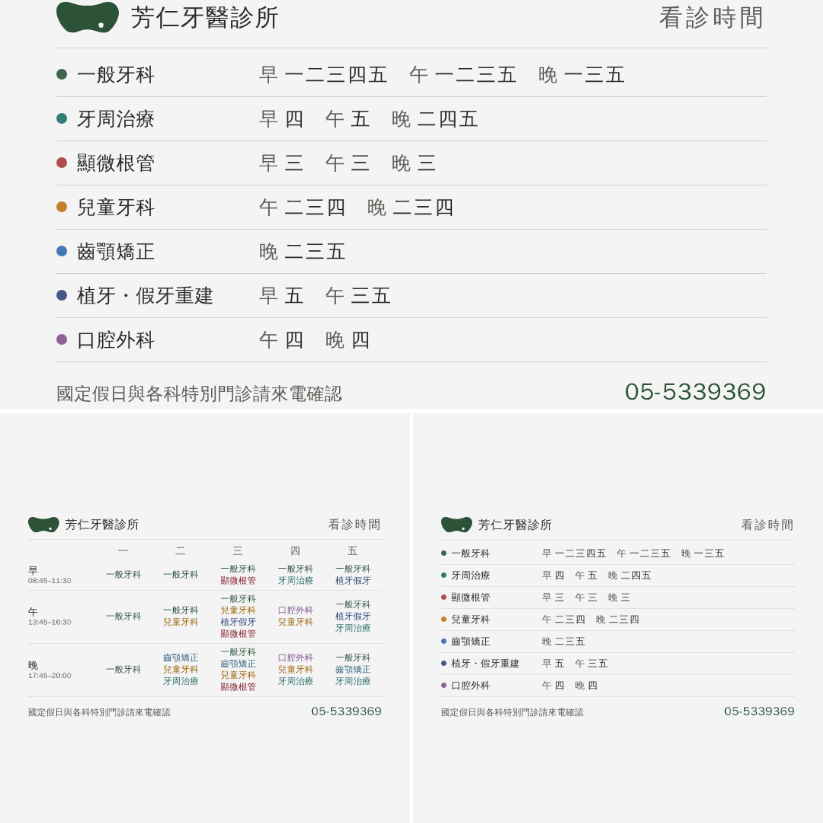
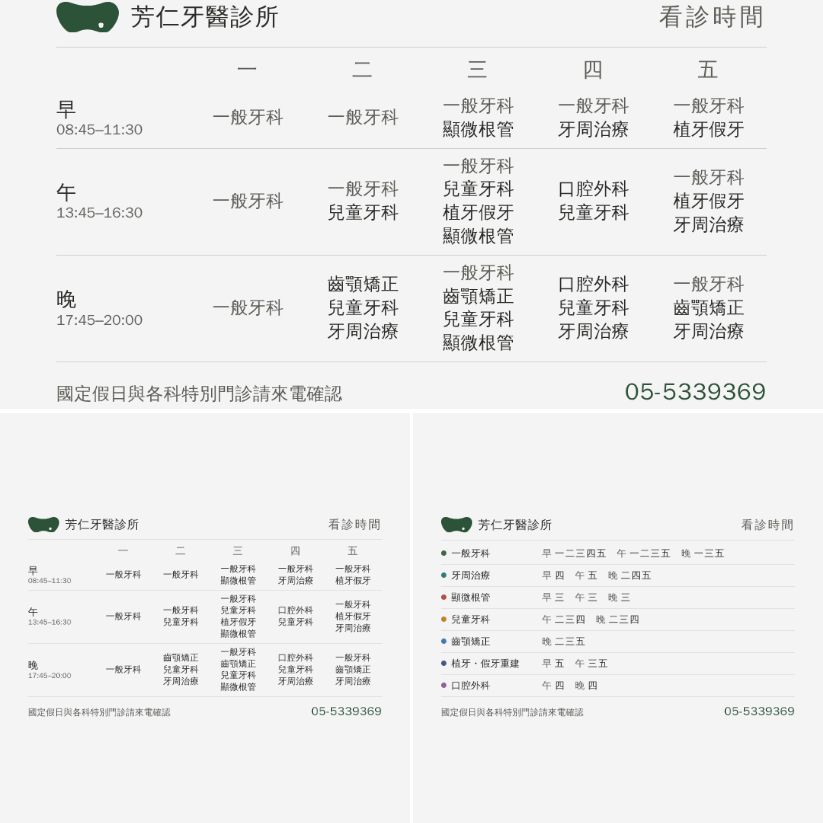
LINE 貼文的看診時間圖：顏色收掉，三案待選
使用者：「G 文字的比較好，但有需要這麼多顏色嗎…或是每個科別各自用一個 logo」
兩個提議方向相反（一個減、一個加），三個都做出來，並在成品的尺寸上量過。

Ⓡ **一般牙科退一階（建議）** —— ⚠⚠⚠ 它在 15 節裡佔 12 節，是「這一節有沒有
   開診」的背景，不是「這一節有什麼特別的」。和其他六科畫成一樣重，等於讓最
   不需要找的東西佔掉最多視覺重量（25 個名字裡有 12 個是它）。退一階之後，
   五科特別門診自己跳出來 —— 零彩色，但層次比七色更清楚。
Ⓘ 全部同一個墨 —— 最乾淨，代價是要一個字一個字讀。
Ⓜ 每科一顆記號 —— ⚠ **不建議，而且是量出來的**：那九顆標誌變體畫成 22px
   （＝格子裡記號的大小），兩兩不同的像素比例最不像的一對也只有 20.9%、
   中位 16.7%（同樣九顆在 150px 的浮水印上是 52.0%／26.6%）。
   它們是同一個標誌的九種變體，不是九個不同的圖示。而且一格最多四個項目，
   25 顆記號比顏色更花，和他要的方向相反。

⚠ 通則（已在 CLAUDE.md，這裡又用上一次）：**在成品的尺寸上量，不要在素材的
尺寸上量** —— 同一組形狀在 150px 下堪用、在 22px 下不成立。

Claude-Session: https://claude.ai/code/session_01MZajVWsXZEKKyaPnDuqBAm

diff --git a/preview/line-post-hours/index.html b/preview/line-post-hours/index.html
@@ -6,19 +6,13 @@
 <meta name="robots" content="noindex, nofollow, noarchive">
 <title>芳仁牙醫診所　LINE 貼文的看診時間圖</title>
 <!--
-  兩案待選。定案之後照 CLAUDE.md 第十一之五節改寫成規格頁
-  （成品在 LINE 不在站上，所以不刪頁、不搬進 history/）。
-
-  ⚠⚠⚠ 2026-09-07 使用者看過五案：「覺得不夠乾淨　簡潔」。
-     ① 圖收成三塊（識別／表／電話），沒有卡片框、沒有副標、沒有大標題。
-     ② **這一頁的文字也一起收掉** —— 他同一天才對 /preview/line-spec/ 講過
-        「只要保留模擬圖的部分就好…大量的文字解說都不用」，我隔一頁又寫了一堆。
-     ③ 「乾淨簡潔」本身淘汰了三案：色點版要來回對照圖例、八張版要滑八張。
-     推導留在 drafts/channels/post-hours.mjs 的檔頭，不搬到這一頁上。
+  2026-09-07 使用者：「我感覺 G 文字的比較好，但有需要這麼多顏色嗎？
+  因為光以文字應該就能區分科別。或是每個科別各自用一個 logo 加註呢？」
+  → 兩個提議方向相反（一個減、一個加），三個方案都做出來，
+    而且**在成品的尺寸上量過**再下判斷。推導留在 drafts/channels/post-hours.mjs 的檔頭。
 
   ⚠ 圖一律擺真的產出檔；width/height 屬性要等於 PNG 檔頭的真實尺寸。
-  ⚠ 連結一律相對路徑 —— 舊站 yclee86.github.io 還活著。
-  ⚠ 刻意零 JS（守門連 script 標籤都擋）。
+  ⚠ 連結一律相對路徑；刻意零 JS（守門連 script 標籤都擋）。
 -->
 <style>
 :root{--paper:#e2e5e6;--card:#f4f4f5;--rule:#cdd0d2;
@@ -42,8 +36,7 @@ code{font-size:.94em;background:var(--card);border-radius:4px;padding:0 4px;
 .pv-h2 em{font-style:normal;font-size:.72em;background:var(--deep);color:#fff;
   border-radius:6px;padding:1px 7px;margin-left:6px;letter-spacing:.04em;vertical-align:2px}
 .pv-shot{margin:10px 0 0}
-.pv-shot img{display:block;width:100%;height:auto;border-radius:10px;
-  border:1px solid var(--rule)}
+.pv-shot img{display:block;width:100%;height:auto;border-radius:10px;border:1px solid var(--rule)}
 .pv-cap{font-size:.7rem;color:var(--ink-soft);line-height:1.7;margin:7px 0 0}
 .pv-cap b{color:var(--ink)}
 .pv-cap .n{color:var(--red);font-weight:700}
@@ -56,38 +49,50 @@ code{font-size:.94em;background:var(--card);border-radius:4px;padding:0 4px;
 <div class="pv-wrap">
 
   <h1>LINE 貼文的看診時間圖
-    <span>兩案待選　2026-09-07</span></h1>
-  <p class="pv-lead">站上那張表靠<b>點科別標記</b>一次看一科。<br>
-    貼文是靜態的圖，但畫布 1080px <b>放得下</b>，所以不模擬切換，直接攤開。</p>
+    <span>顏色三案　2026-09-07</span></h1>
+  <p class="pv-lead">「光以文字應該就能區分科別」——<b>對</b>。<br>
+    但全部同一階會讓表變得很平，所以中間那一案多做一件事。</p>
 
-  <h2 class="pv-h2">Ⓛ 一科一行<em>建議</em>
-    <span class="t">早／午／晚 各列出哪幾天</span></h2>
+  <h2 class="pv-h2">Ⓡ 一般牙科退一階<em>建議</em>
+    <span class="t">零彩色，但有層次</span></h2>
   <div class="pv-shot">
-    <img src="post-hours-list.png" width="1080" height="1080"
-      alt="一科一行：七科各一列，每列寫出早、午、晚分別是哪幾天">
+    <img src="post-hours-rank.png" width="1080" height="1080"
+      alt="格子表：一般牙科用淺灰、其餘六科用深墨，沒有彩色">
   </div>
-  <p class="pv-cap">病人查的是「<b>我這一科什麼時候可以來</b>」。<br>
-    顯微根管排出來是「早三　午三　晚三」——<b>全在週三自己跳出來</b>，格子表看不出來。</p>
+  <p class="pv-cap">⚠ <b>一般牙科在 15 節裡佔 12 節</b>——它是「這一節有沒有開診」的背景，
+    不是「這一節有什麼特別的」。<br>
+    和其他六科一樣重，等於讓<b>最不需要找的東西佔掉最多視覺重量</b>（25 個名字裡有 12 個是它）。<br>
+    退一階之後，<b>五科特別門診自己跳出來</b>。</p>
 
-  <h2 class="pv-h2">Ⓖ 格子
-    <span class="t">和站上那張表同一個排法</span></h2>
+  <h2 class="pv-h2">Ⓘ 全部同一個墨
+    <span class="t">你講的那一個</span></h2>
   <div class="pv-shot">
-    <img src="post-hours-grid.png" width="1080" height="1080" loading="lazy"
-      alt="格子表：日子當欄、早午晚當列，格子裡直接寫科別名">
+    <img src="post-hours-ink.png" width="1080" height="1080" loading="lazy"
+      alt="格子表：所有科別都用同一個深墨">
   </div>
-  <p class="pv-cap">看得出「<b>同一節有誰一起看診</b>」。<br>
-    <span class="n">⚠</span>「植牙・假牙重建」被格子寬度逼成「<b>植牙假牙</b>」——要你點頭。</p>
+  <p class="pv-cap">最乾淨。代價是<b>要一個字一個字讀</b>——掃過去分不出哪幾節有特別門診。</p>
 
-  <h2 class="pv-h2">擺進主頁那三格
-    <span class="t">大格 2:1、小格 1:1</span></h2>
+  <h2 class="pv-h2">Ⓜ 每科一顆記號
+    <span class="t">你的第二個提議</span></h2>
+  <div class="pv-shot">
+    <img src="post-hours-mark.png" width="1080" height="1080" loading="lazy"
+      alt="格子表：每個科別名前面加一顆標誌變體的小記號，25 顆記號長得幾乎一樣">
+  </div>
+  <p class="pv-cap"><span class="n">⚠</span> <b>不建議</b>，而且是量出來的：
+    診所那九顆標誌變體畫成 <b>22px</b>（＝這裡記號的大小），
+    兩兩不同的像素比例<b>最不像的一對也只有 20.9%</b>、中位 16.7%
+    （同樣九顆在 150px 的浮水印上是 52.0%／26.6%）。<br>
+    它們是<b>同一個標誌的九種變體</b>，不是九個不同的圖示——放小就分不出來。<br>
+    而且一格最多 4 個項目，<b>25 顆記號比顏色更花</b>，和你要的方向相反。<br>
+    要走這條路得<b>新畫七個科別圖示</b>（象徵物），那是另一件事。</p>
+
+  <h2 class="pv-h2">擺進主頁那三格</h2>
   <div class="pv-shot">
     <img src="profile-3up.png" width="823" height="823" loading="lazy"
-      alt="主頁三格模擬：大格是一科一行，底下兩小格是格子表與一科一行">
+      alt="主頁三格模擬：大格是一般牙科退一階那一版">
   </div>
-  <p class="pv-cap">大格會把 1080 的圖<b>上下各切掉 271 列</b>，所以識別與電話
-    收在中間那條帶子裡。<br>
-    <span class="n">⚠</span> 到底是裁還是留白<b>我們沒驗過</b>——表單右上角那顆
-    <b>預覽</b>按一下就有答案。兩案哪一種都成立。</p>
+  <p class="pv-cap">大格會把 1080 的圖<b>上下各切掉 271 列</b>，所以識別與電話收在中間那條帶子裡。<br>
+    <span class="n">⚠</span> 到底是裁還是留白<b>我們沒驗過</b>——表單右上角那顆<b>預覽</b>按一下就有答案。</p>
 
   <h2 class="pv-h2">「詳情」欄要貼的字</h2>
   <div class="pv-txt">一週的門診時段，以及每一節有哪些科別。
@@ -95,6 +100,15 @@ code{font-size:.94em;background:var(--card);border-radius:4px;padding:0 4px;
 國定假日與各科特別門診請來電確認　05-5339369</div>
   <p class="pv-cap">排班、時段、電話都是從站上 <code>index.html</code> 讀回來的，
     <b>不重打</b>——診所改排班，重跑一次就好。</p>
+
+  <h2 class="pv-h2">另一種排法
+    <span class="t">上一輪的一科一行，還留著</span></h2>
+  <div class="pv-shot">
+    <img src="post-hours-list.png" width="1080" height="1080" loading="lazy"
+      alt="一科一行：七科各一列，每列寫出早、午、晚分別是哪幾天">
+  </div>
+  <p class="pv-cap">你說格子比較好，這一張留著當對照。<br>
+    它唯一贏的地方：顯微根管排出來是「早三　午三　晚三」，<b>全在週三自己跳出來</b>。</p>
 
 </div>
 </body>
